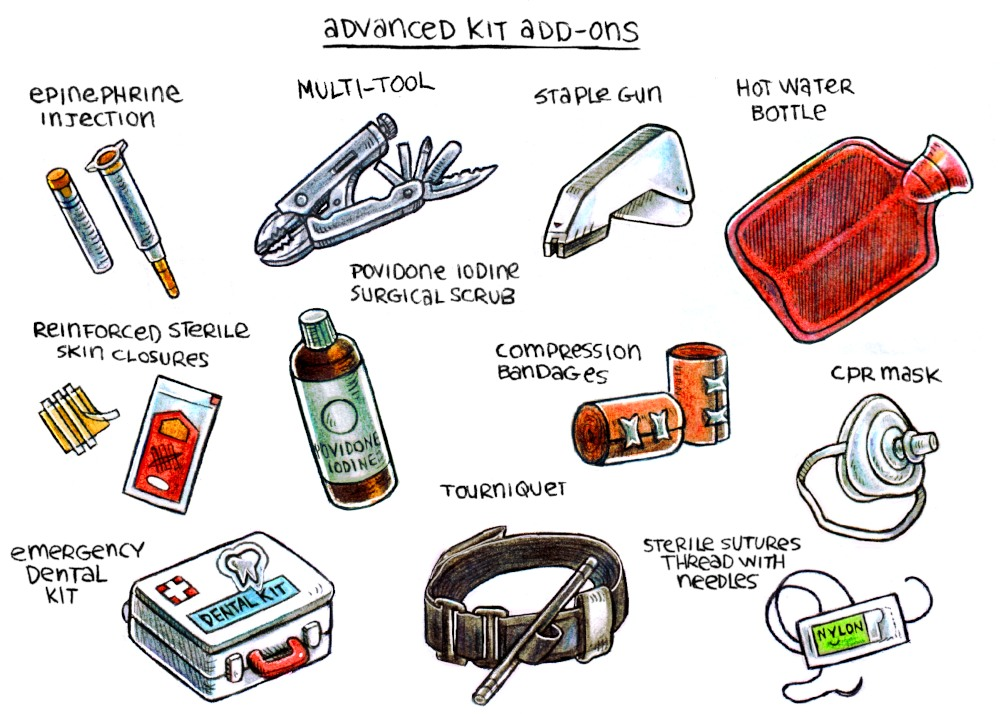
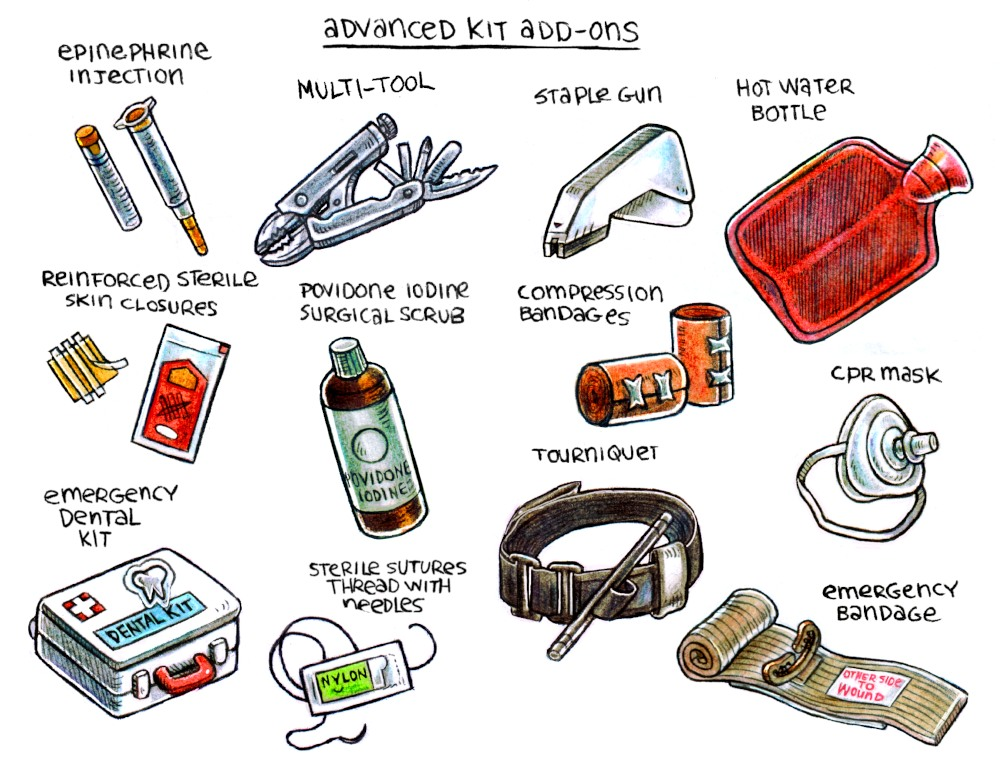
*

diff --git a/site/first_aid_kit.html b/site/first_aid_kit.html
@@ -39,8 +39,8 @@
     <img src='../media/content/medicine_kit.jpg' alt='drawings of examples of items that basic medicine kits ought to contain: Ibuprofen, Aspirin, Antihistamines, Seasickness meds, Ear drops, Eye wash, Bug spray, Hand sanitizer, Topical anesthetic, Azithromycin, Acetaminophen, Sunscreen (SPF 30), Aloe vera gel with lidocaine, Bacitracin (Topical ointment), Hydrogen peroxide, and anti-diarrheal.' loading="lazy">
     <p class='noprint'>Ibuprofen, Aspirin, Antihistamines, Seasickness meds, Ear drops, Eye wash, Bug spray, Hand sanitizer, Topical anesthetic, Azithromycin, Acetaminophen, Sunscreen (SPF 30), Aloe vera gel with lidocaine, Bacitracin (Topical ointment), Hydrogen peroxide, and anti-diarrheal.</p>
     <h2>Advanced add-ons to a medical kit</h2>
-    <img src='../media/content/addon_kit.jpg' alt='drawings of useful add ons for an advanced first aid kit: Hot water bottle, Staple gun, Epinephrine, Tourniquet, Multitool, Compression bandage, Reinforced sterile skin closures, CPR pocket mask, Povidone iodine surgical scrubs, Sterile sutures thread with needle, and Emergency dental kit' loading="lazy">
-    <p class='noprint'>Hot water bottle, Staple gun, Epinephrine, Tourniquet, Multitool, Compression bandage, Reinforced sterile skin closures, CPR pocket mask, Povidone iodine surgical scrubs, Sterile sutures thread with needle, and Emergency dental kit.</p>
+    <img src='../media/content/addon_kit.jpg' alt='drawings of useful add ons for an advanced first aid kit: Hot water bottle, Staple gun, Epinephrine, Tourniquet, Multitool, Compression bandage, Reinforced sterile skin closures, CPR pocket mask, Povidone iodine surgical scrubs, Sterile sutures thread with needle, an emergency(israeli) bandage, and an emergency dental kit' loading="lazy">
+    <p class='noprint'>Hot water bottle, Staple gun, Epinephrine, Tourniquet, Multitool, Compression bandage, Reinforced sterile skin closures, CPR pocket mask, Povidone iodine surgical scrubs, Sterile sutures thread with needle, an emergency(israeli) bandage, and an emergency dental kit.</p>
 </main>
 <footer>
     <div id='wrapfooter'>
